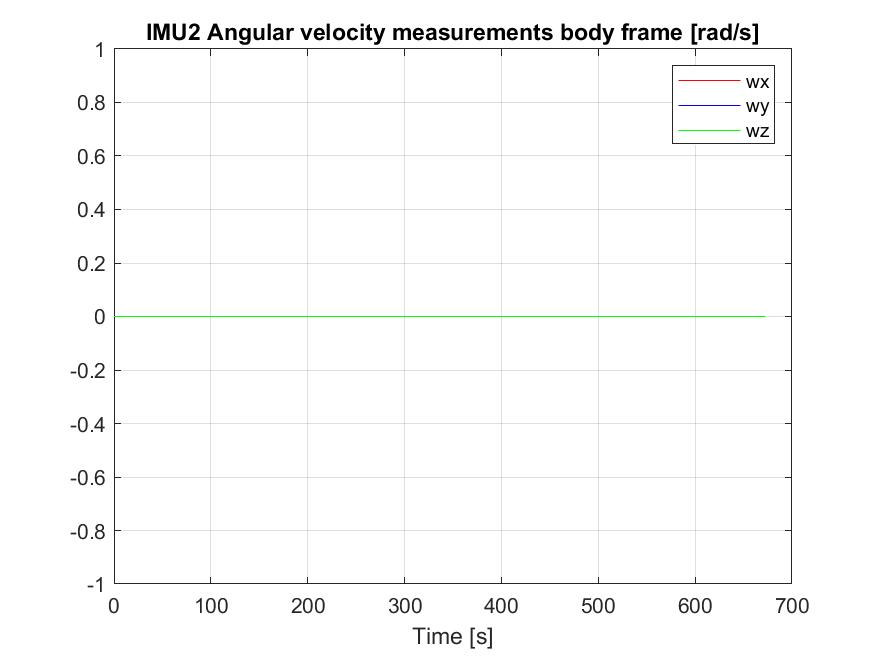
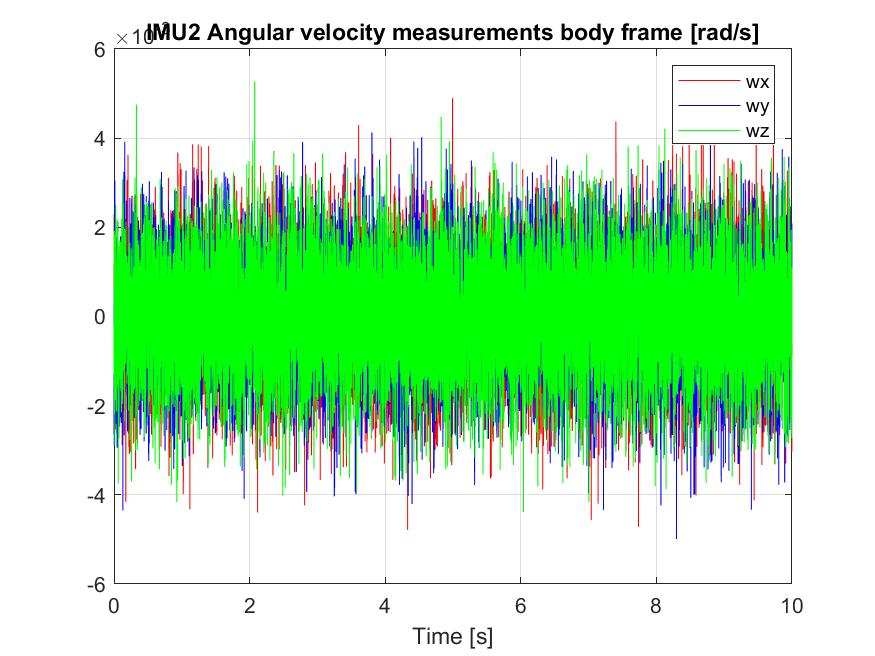
IMU simulator added. One axis angular velocity test cases added.

diff --git a/synthetic-data/one_axis_angular_IMU/sinusoidal.m b/synthetic-data/one_axis_angular_IMU/sinusoidal.m
@@ -4,7 +4,7 @@
 %% 
 % Kalman filter to estimate orientation simulating an IMU containing gyros
 % and accelerometers 
-% Simple sinusoidal angular velocity in one axis
+% Constat angular velocity in x axis
 
 %% Use NaveGo functions
 matlabrc
@@ -99,17 +99,17 @@ imu1.ini_align = [0 0 0]; % Initial attitude align at t(1) (radians).
 % Generate N samples at a sampling rate of Fs with a sinusoidal frequency
 % of Fc.
 
-load('zAxisRotation.mat')
+load('xAxisRotation.mat')
 
 %%
-imu1.t = zAxisRotation(:,1);
+imu1.t = xAxisRotation(:,1);
 N = length(imu1.t);
-imu1.wb(:,1) = zAxisRotation(:,2) 
-imu1.wb(:,2) = zAxisRotation(:,3) 
-imu1.wb(:,3) = zAxisRotation(:,4)
-imu1.fb(:,1) = zAxisRotation(:,5)
-imu1.fb(:,2) = zAxisRotation(:,6) 
-imu1.fb(:,3) = zAxisRotation(:,7) 
+imu1.wb(:,1) = xAxisRotation(:,2) + imu1.g_std(1)*randn(N,1);
+imu1.wb(:,2) = xAxisRotation(:,3) + imu1.g_std(2)*randn(N,1);
+imu1.wb(:,3) = xAxisRotation(:,4) + imu1.g_std(3)*randn(N,1);
+imu1.fb(:,1) = xAxisRotation(:,5) + imu1.a_std(1)*randn(N,1);
+imu1.fb(:,2) = xAxisRotation(:,6) + imu1.a_std(2)*randn(N,1);
+imu1.fb(:,3) = xAxisRotation(:,7) + imu1.a_std(3)*randn(N,1);
 
 
 
@@ -168,19 +168,40 @@ legend('location','southeast')
 
 
 figure(6)
-plot(imu1.t, euler(:,1), 'r', imu1.t, euler(:,2), 'b', imu1.t, euler(:,3), 'g')
-legend('roll [rad]', 'pitch [rad]', 'yaw [rad]')
+plot(imu1.t, rad2deg(euler(:,1)), 'r', imu1.t, rad2deg(euler(:,2)), 'b', imu1.t, rad2deg(euler(:,3)), 'g')
+legend('roll [deg]', 'pitch [deg]', 'yaw [deg]')
 xlabel('Time [s]')
 grid minor
 title('ADIS16405 (IMU1) attitude computer Euler angles')
 
 for i = 1:length(nav1.t)
-    nav1.quat_error_norm(i,1) = norm(nav1.deltaxp(i,:));
+    nav1.quat_error_norm(i,1) = norm(nav1.deltaxp(1:3,:));
+    nav1.dyn_bias_norm(i,1) = norm(nav1.deltaxp(4:6,:));
 end
 
-figure(10)
-plot(nav1.t, nav1.quat_error_norm, 'r')
+
+figure(7)
+plot(nav1.t, nav1.quat_error_norm, 'r', nav1.t, nav1.dyn_bias_norm, 'b')
 xlabel('Time [s]')
 grid minor
+legend('\deltaq','\delta\zeta')
 %xlim([-20, nav1.t(end) + 20])
-title('Quaternion error \deltaq IMU')
+title('Errors')
+
+
+figure(8)
+plot(imu1.t, quat(:,1), 'r', imu1.t, quat(:,2), 'c', imu1.t, quat(:,3), 'g', imu1.t, quat(:,4), 'k', ...
+     nav1.t, nav1.qua(:,1), '--r', nav1.t, nav1.qua(:,2), '--c', nav1.t, nav1.qua(:,3), '--g', nav1.t, nav1.qua(:,4), '--k')
+xlabel('Time [s]')
+legend('q1', 'q2', 'q3', 'q4','q1 Kalman','q2 Kalman','q3 Kalman', 'q4 Kalman')
+grid minor
+title('Attitude computer vs Kalman filter. Quaternions')
+legend('location','southeast')
+
+figure(9)
+plot(imu1.t, rad2deg(euler(:,1)), 'r', imu1.t, rad2deg(euler(:,2)), 'b', imu1.t, rad2deg(euler(:,3)), 'g', ...
+     nav1.t, nav1.roll, '--r', nav1.t, nav1.pitch, '--b', nav1.t, nav1.yaw, '--g')
+legend('roll', 'pitch', 'yaw', 'roll Kalman', 'pitch Kalman', 'yaw Kalman')
+xlabel('Time [s]')
+grid minor
+title('Attitude computer vs Kalman filter. Euler angles [deg]')

diff --git a/kalman/imu_filter.m b/kalman/imu_filter.m
@@ -94,7 +94,7 @@ nav.Pp = zeros(LI, 36);          % A posteriori covariance matrices, Pp
 nav.K  = zeros(LI, 18);          % Kalman gain matrices, K
 nav.S  = zeros(LI, 9);           % Innovation matrices, S
 nav.ob = zeros(LI, 1);           % Number of observable states at each acceleromter data
-nav.deltay_prop = zeros(LI,3);   % Propagated measurement error
+%nav.deltay_prop = zeros(LI,3);   % Propagated measurement error
 nav.deltar = zeros(LI,3);        % Error residual
 nav.deltay = zeros(LI,3);        % Estimated measurement error
 nav.wb = zeros(LI, 3);           % Corrected angular velocity
@@ -115,7 +115,7 @@ kf.H = [skewm(g_n) O];
 
 % Correction covariance matrix, constant value over time
 kf.R = diag([imu.a_std]).^2;
-%kf.R = diag([0.0001, 0.0001, 0.0001]).^2;
+kf.R = diag([0.0001, 0.0001, 0.0001]).^2;
 
 % Propagate prior estimates to get xp(1) and Pp(1)
 kf = kf_update_acc( kf );
@@ -134,7 +134,7 @@ nav.deltay(1,:) = kf.deltay;
 
 % Prediction covariance matrix, constant value over time
 kf.Q  = diag([imu.g_std, imu.gb_dyn].^2);
-%kf.Q  = diag([1, 1, 1, 1, 1, 1].^2);
+kf.Q  = diag([1, 1, 1, 1, 1, 1].^2);
 
 
 for i = 2:LI
@@ -159,7 +159,7 @@ for i = 2:LI
           kf.deltay = -DCMbn*ab - g_n;
           
           % Execution of the Extended Kalman filter
-          %kf.deltaxp(1:3) = 0.0;           % states 1:3 are forced to be zero (error-state approach)
+          kf.deltaxp = zeros(length(kf.deltaxp),1);           % states 1:3 are forced to be zero (error-state approach)
           kf = kalman(kf, dt);
          
           % OBSERVABILITY
@@ -205,7 +205,7 @@ for i = 2:LI
           nav.K(i,:)            = reshape(kf.K, 1, 18);
           nav.S(i,:)            = reshape(kf.S, 1, 9);
           nav.ob(i,:)           = ob;
-          nav.deltay_prop(i,:)  = kf.deltay_prop;
+          %nav.deltay_prop(i,:)  = kf.deltay_prop;
           nav.deltar(i,:)       = kf.deltar;
           nav.deltay(i,:)       = kf.deltay;
           nav.wb(i,:)           = wb_corrected;

diff --git a/synthetic-data/static_IMU/static_IMU.m b/synthetic-data/static_IMU/static_IMU.m
@@ -1,6 +1,6 @@
 %% ATTITUDE COMPUTATION
 % Author: Laura Train
-% Date 21/12
+% Date  21/12 .
 %% 
 % Kalman filter to estimate orientation simulating an IMU containing gyros
 % and accelerometers. Simulate a static IMU with
@@ -75,17 +75,18 @@ load ref.mat
 
 
 load imu1.mat
-N = length(imu1.t);
+N = 10000;
+imu1.t = linspace(0,10,N);
 imu1.ini_align = [0,0,0];
-wbx = zeros(N,1) 
-wby = zeros(N,1); 
-wbz = zeros(N,1); 
+wbx = zeros(N,1) + imu1.g_std(1)*randn(N,1);
+wby = zeros(N,1) + imu1.g_std(2)*randn(N,1); 
+wbz = zeros(N,1) + imu1.g_std(3)*randn(N,1); 
 
 imu1.wb = [wbx, wby, wbz];
 
-abx = zeros(N,1); 
-aby = zeros(N,1); 
-abz = -9.81*ones(N,1); 
+abx = zeros(N,1) + imu1.a_std(1)*randn(N,1);
+aby = zeros(N,1) + imu1.a_std(2)*randn(N,1); 
+abz = -9.81*ones(N,1) + imu1.a_std(3)*randn(N,1);
 
 imu1.fb = [abx, aby, abz];
 
@@ -144,18 +145,20 @@ saveas(figure(2),'IMU1_angularvelocities_raw.jpg')
 % ini_align_err: 1x3 initial attitude errors at t(1), [roll pitch yaw] (rad).
 
 load imu2.mat
-
+N = 10000;
+imu2.t = linspace(0,10,N);
 imu2.ini_align = [0,0,0];
 
-wbx = zeros(length(imu2.t),1);
-wby = zeros(length(imu2.t),1);
-wbz = zeros(length(imu2.t),1);
+wbx = zeros(N,1) + imu2.g_std(1)*randn(N,1);
+wby = zeros(N,1) + imu2.g_std(2)*randn(N,1);
+wbz = zeros(N,1) + imu2.g_std(3)*randn(N,1);
+
 
 imu2.wb = [wbx, wby, wbz];
 
-abx = zeros(length(imu2.t),1);
-aby = zeros(length(imu2.t),1);
-abz = -9.81*ones(length(imu2.t),1);
+abx = zeros(N,1) + imu2.a_std(1)*randn(N,1);
+aby = zeros(N,1) + imu2.a_std(2)*randn(N,1);
+abz = -9.81*ones(N,1) + imu2.a_std(3)*randn(N,1);
 
 imu2.fb = [abx, aby, abz];
 

diff --git a/kalman/kf_update_acc.m b/kalman/kf_update_acc.m
@@ -25,11 +25,13 @@ function  kf = kf_update_acc(kf)
 kf.S = (kf.R + kf.H * kf.Pi * kf.H');
 kf.K = (kf.Pi * kf.H') * (kf.S)^(-1);
 
-kf.deltay_prop = kf.H * kf.deltaxi;
-kf.deltar = kf.deltay - kf.deltay_prop;
-kf.deltaxp = kf.deltaxi + kf.K * kf.deltar;
+%kf.deltay_prop = kf.H * kf.deltaxi;
+kf.deltar = kf.deltay;
+%- kf.deltay_prop;
+kf.deltaxp = kf.K * kf.deltar + kf.deltaxi;
 
-kf.Pp = kf.Pi - kf.K * kf.H * kf.Pi;
+kf.Pp = (eye(6) - kf.K * kf.H)*kf.Pi;
+%kf.Pp = kf.Pi - kf.K * kf.S * kf.K';
 kf.Pp =  0.5 .* (kf.Pp + kf.Pp');               % Force Pi to be a symmetric matrix
 
 

diff --git a/kalman/kf_prediction.m b/kalman/kf_prediction.m
@@ -22,7 +22,7 @@ function  kf = kf_prediction(kf, dt)
     kf.Phi = expm(kf.F .* dt);
     kf.deltaxi = kf.Phi * kf.deltaxp;
     
-    kf.Qd = (kf.G * kf.Q * kf.G'); 
+    kf.Qd = (kf.G * kf.Q * kf.G') .* dt; 
     kf.Pi = kf.Phi * kf.Pp * kf.Phi' + kf.Qd;
     kf.Pi =  0.5 .* (kf.Pi + kf.Pi');               % Force Pi to be symmetric matrix
 

diff --git a/kalman/kalman.m b/kalman/kalman.m
@@ -62,6 +62,8 @@ function  kf = kalman(kf, dt)
 
 kf = kf_prediction(kf, dt);
 
+
+
 % UPDATE STEP
 
 kf = kf_update_acc(kf);

diff --git a/README.md b/README.md
@@ -1,15 +1,13 @@
 # Attitude-filter
 Data fusion of gyro and accelerometer for one IMU
 
-
 For latest work: brach in_process
 
 Case studies:
 
-- static test: go to synthetic-data/static_IMU/static_IMU.m
-- one axis rotation: 
-  - constant rotation around x-axis: synthetic-data/one_axis_angular_IMU/x_axis.m
-  - constant rotation around y-axis: synthetic-data/one_axis_angular_IMU/y_axis.m
-  - constant rotation around z-axis: synthetic-data/one_axis_angular_IMU/z_axis.m
-  
+static test: go to synthetic-data/static_IMU/static_IMU.m
+one axis rotation:
+constant rotation around x-axis: synthetic-data/one_axis_angular_IMU/x_axis.m
+constant rotation around y-axis: synthetic-data/one_axis_angular_IMU/y_axis.m
+constant rotation around z-axis: synthetic-data/one_axis_angular_IMU/z_axis.m
 To see how the data for gyro and accelerometer is obtained go to synthetic-data/IMU_simulator.m
